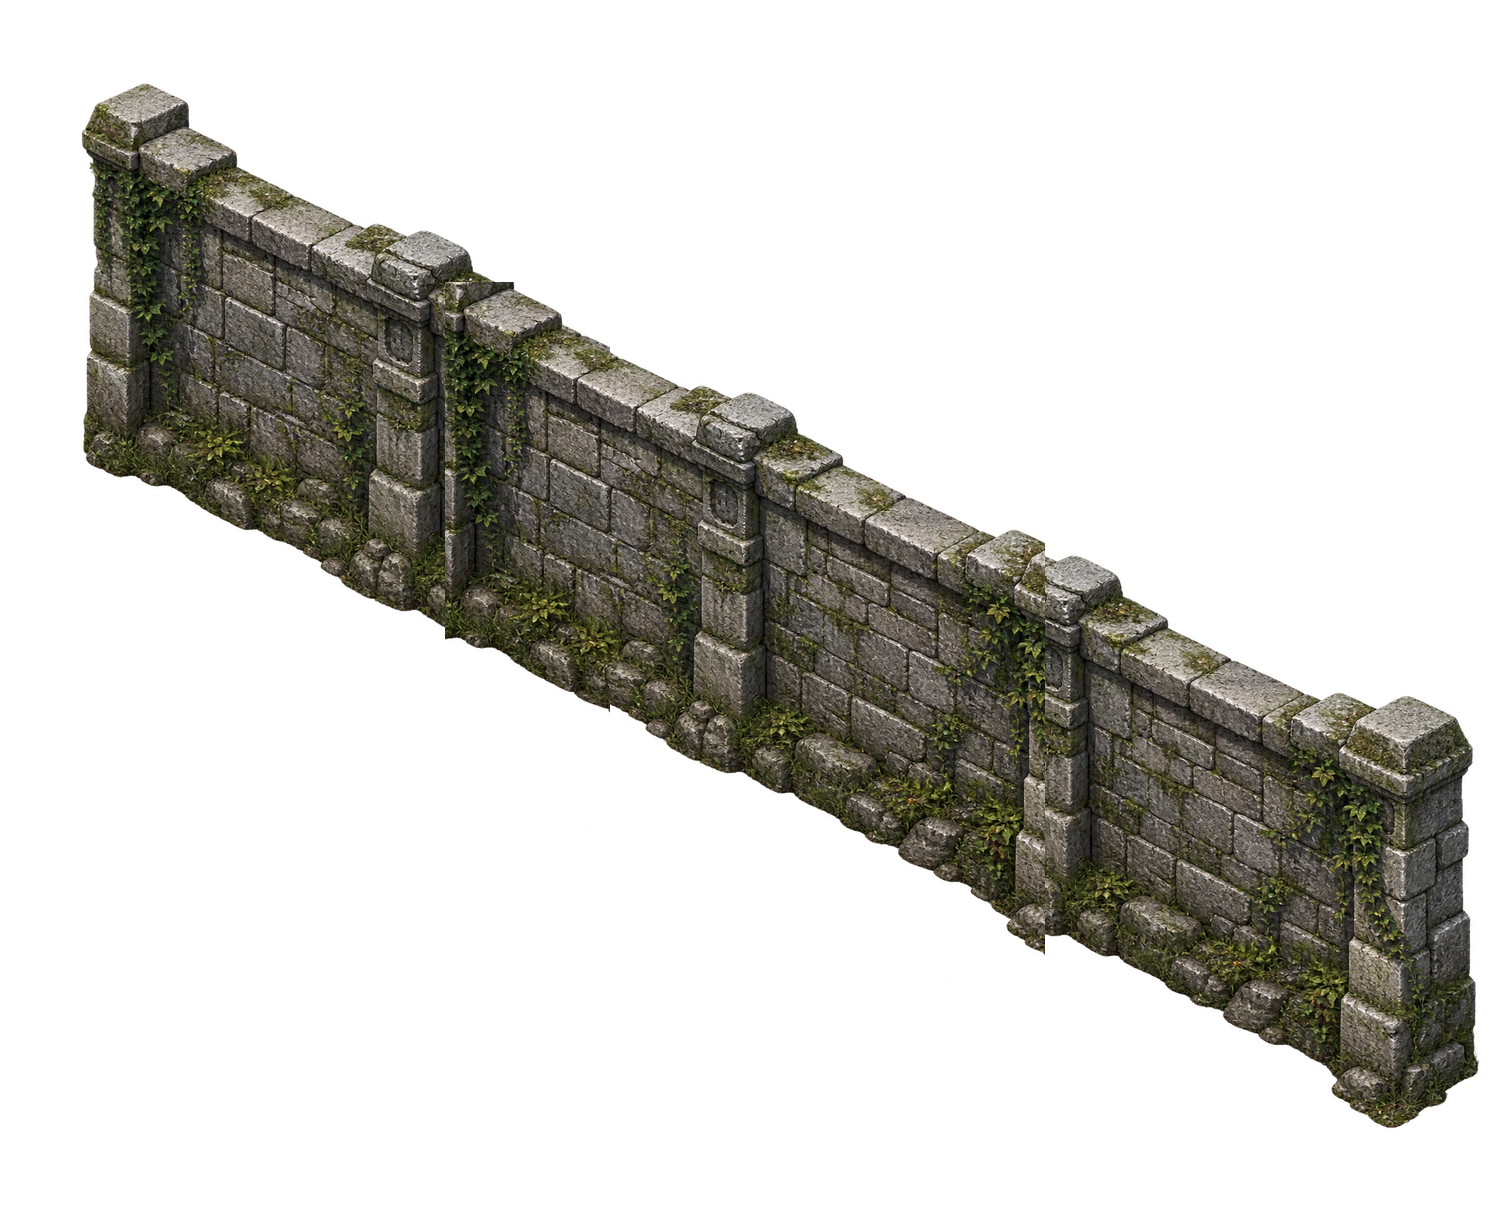
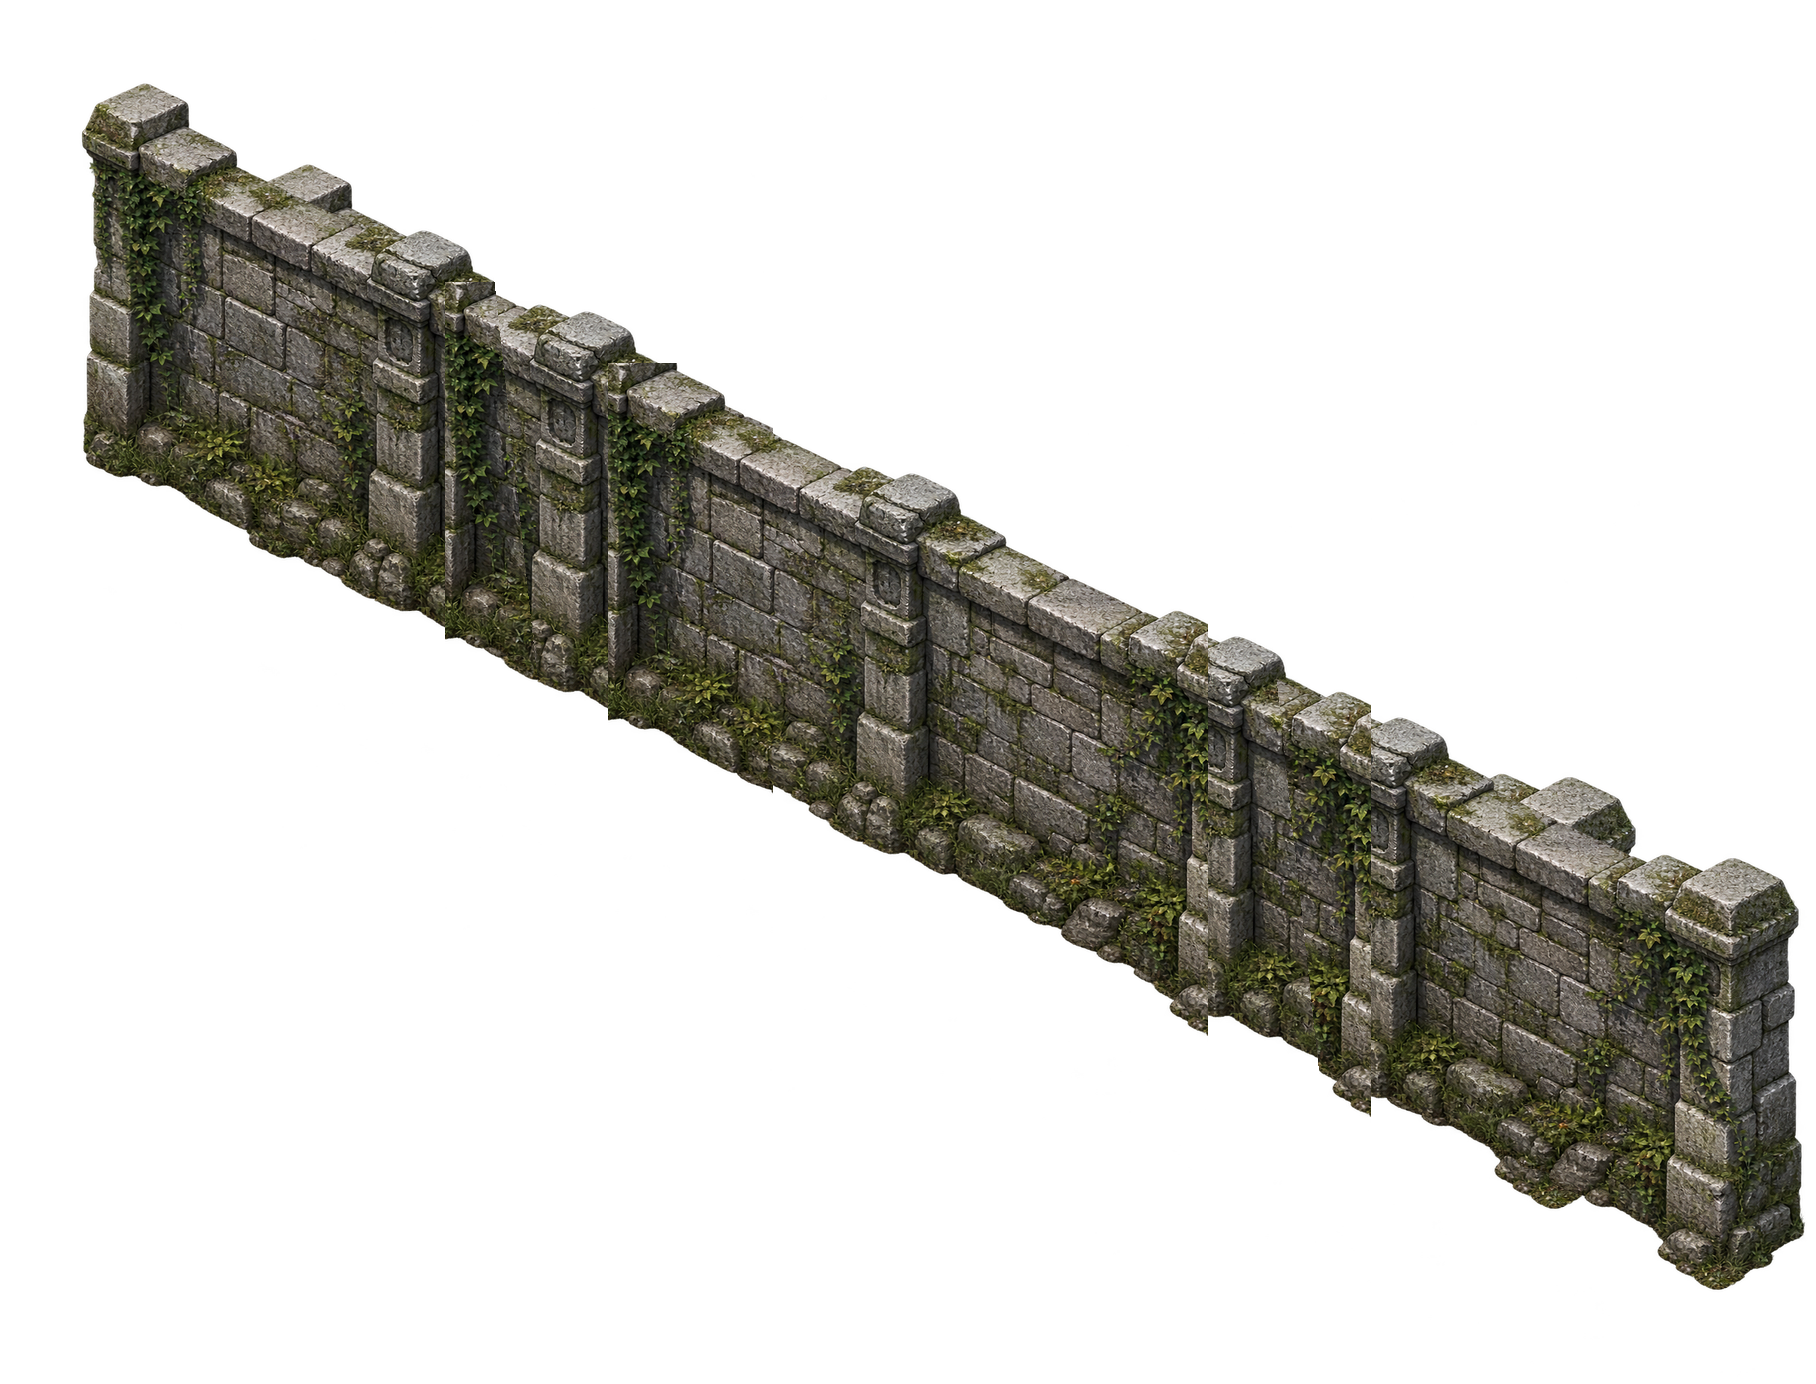
commit

Changed region(s): [[0.0309, 0.0622, 1.0, 0.9329]]

diff --git a/src/scenes/AetherCityScene.ts b/src/scenes/AetherCityScene.ts
@@ -452,12 +452,12 @@ export class AetherCityScene extends Phaser.Scene {
     // O trecho quebrado fica na muralha Leste, entre a torre sudeste e o
     // Portão Leste. Um pequeno avanço visual em direção à torre garante que
     // a peça desapareça sob ela, que continua renderizada à frente.
-    this.addBrokenWallSection('u', C.CITY_MAX, 18, C.CITY_MAX, false, .28);
+    this.addBrokenWallSection('u', C.CITY_MAX, 18, C.CITY_MAX, false);
     this.addWallRun('v', C.CITY_MAX, C.CITY_MIN, 10, true);
     // A metade sudeste da muralha Sul usa uma peça longa única. Isso elimina
     // o degrau/dobra visual criado pela sobreposição de dois terminais no meio
     // do trecho e mantém a torre sudeste à frente da junção.
-    this.addSouthWallLongSection(18, C.CITY_MAX, .28);
+    this.addSouthWallLongSection(18, C.CITY_MAX);
     this.createCornerTowers();
 
     const gateTargetWidth = 432;
@@ -602,16 +602,16 @@ export class AetherCityScene extends Phaser.Scene {
   }
 
 
-  addSouthWallLongSection(start, end, towardTower = 0) {
+  addSouthWallLongSection(start, end) {
     const key='iso_city_wall_south_long';
     const source=this.textures.get(key).getSourceImage();
     const scale=192/650;
     // O asset longo foi montado com dois módulos já fundidos e um único
     // contraforte no encontro central. O pivô coincide com o meio dos
     // conectores extremos do trecho de oito tiles.
-    const originX=.5;
-    const originY=795/1222;
-    const middle=(start+end)/2+towardTower;
+    const originX=945/1816;
+    const originY=876/1384;
+    const middle=(start+end)/2;
     const image=new IsoSprite({
       scene:this,isoX:middle,isoY:AetherCityScene.CITY_MAX,isoZ:0,
       texture:key,tileWidth:AetherCityScene.TILE_WIDTH,tileHeight:AetherCityScene.TILE_HEIGHT,
@@ -629,23 +629,25 @@ export class AetherCityScene extends Phaser.Scene {
   }
 
 
-  addBrokenWallSection(fixedAxis, fixed, start, end, flip, towerOverlap = 0) {
+  addBrokenWallSection(fixedAxis, fixed, start, end, flip) {
     const key='iso_city_wall_broken';
     const source=this.textures.get(key).getSourceImage();
-    const tileSpan=end-start;
-    const targetWidth=48*tileSpan; // 8 tiles => 384 px no plano 2:1 do mapa.
-    const scale=targetWidth/source.width;
-    const originY=0.864; // alinha a base opaca do trecho quebrado à mesma linha de chão do muro íntegro.
+    // Asset estendido em um tile no lado da torre sudeste. Mantém a escala
+    // original de 0.375 e desloca apenas o canvas/pivô; a arte útil continua
+    // no mesmo tamanho, mas agora entra fisicamente por baixo da torre.
+    const scale=.375;
+    const originX=640/1576;
+    const originY=884.736/1150;
     const middle=(start+end)/2;
-    const u=fixedAxis==='u'?fixed:middle+towerOverlap;
-    const v=fixedAxis==='v'?fixed:middle+towerOverlap;
+    const u=fixedAxis==='u'?fixed:middle;
+    const v=fixedAxis==='v'?fixed:middle;
     const image=new IsoSprite({
       scene:this,isoX:u,isoY:v,isoZ:0,
       texture:key,tileWidth:AetherCityScene.TILE_WIDTH,tileHeight:AetherCityScene.TILE_HEIGHT,
       screenOriginX:AetherCityScene.ORIGIN_X,screenOriginY:AetherCityScene.ORIGIN_Y,
       depthBase:AetherCityScene.ISO_DEPTH_BASE,depthOffset:.09
     });
-    image.setOrigin(.5,originY).setFlipX(flip).setScale(scale);
+    image.setOrigin(originX,originY).setFlipX(flip).setScale(scale);
     image.updateIsoPosition();
     this.wallSprites.push(image);
 
